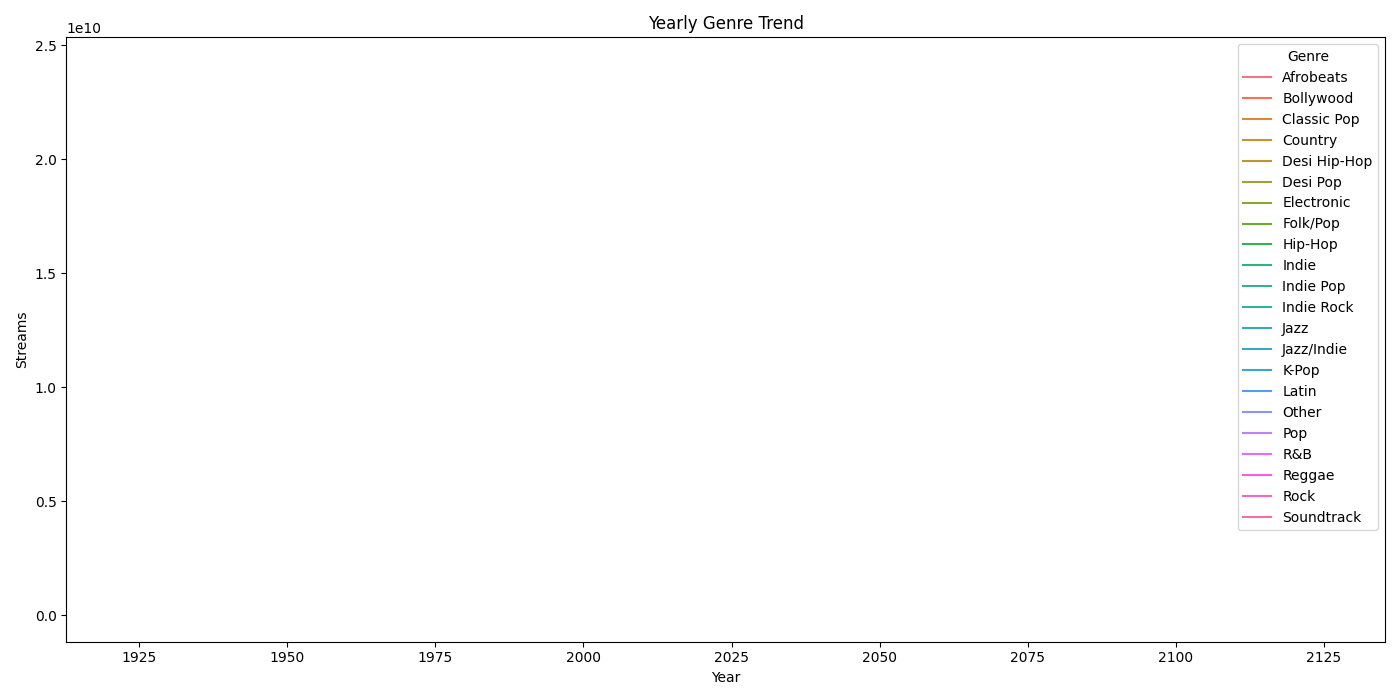
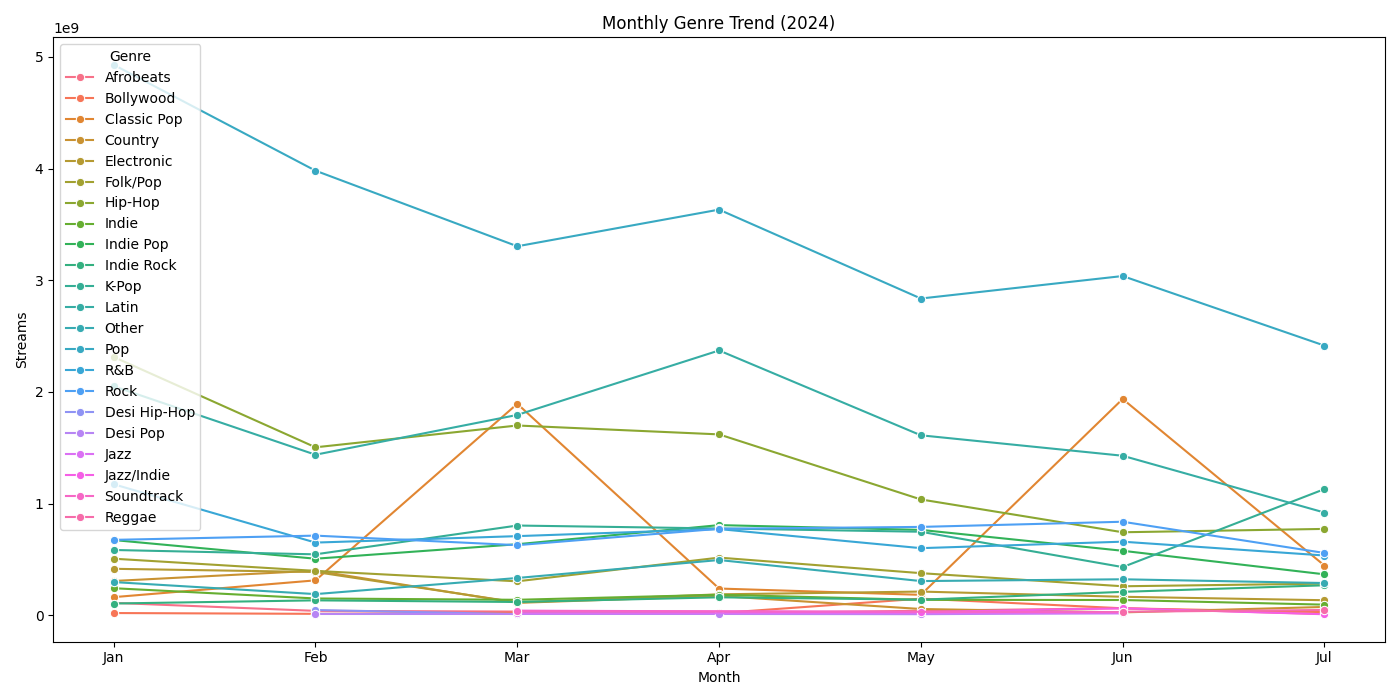
Change yearly trend to monthly trend in EDA to fix empty plot

diff --git a/src/eda.py b/src/eda.py
@@ -67,9 +67,9 @@ plt.savefig(OUTPUT_DIR / 'genre_streams.png')
 plt.close()
 print('Saved: genre_streams.png')
 
-# Yearly trend
-yearly_trend = (
-    df.groupby(['Year', 'Genre'])['Streams']
+# Monthly trend (instead of Yearly because data only covers 2024)
+monthly_trend = (
+    df.groupby(['Month', 'Genre'])['Streams']
     .sum()
     .reset_index()
 )
@@ -77,17 +77,20 @@ yearly_trend = (
 plt.figure(figsize=(14,7))
 
 sns.lineplot(
-    data=yearly_trend,
-    x='Year',
+    data=monthly_trend,
+    x='Month',
     y='Streams',
-    hue='Genre'
+    hue='Genre',
+    marker='o'
 )
 
-plt.title('Yearly Genre Trend')
-plt.xlabel('Year')
+# Force X-ticks to show exact month numbers (1 to 7)
+plt.xticks(range(1, 8), ['Jan', 'Feb', 'Mar', 'Apr', 'May', 'Jun', 'Jul'])
+plt.title('Monthly Genre Trend (2024)')
+plt.xlabel('Month')
 plt.ylabel('Streams')
 
 plt.tight_layout()
 plt.savefig(OUTPUT_DIR / 'yearly_trend.png')
 plt.close()
-print('Saved: yearly_trend.png')
+print('Saved: monthly_trend.png (saved as yearly_trend.png to keep name consistency)')